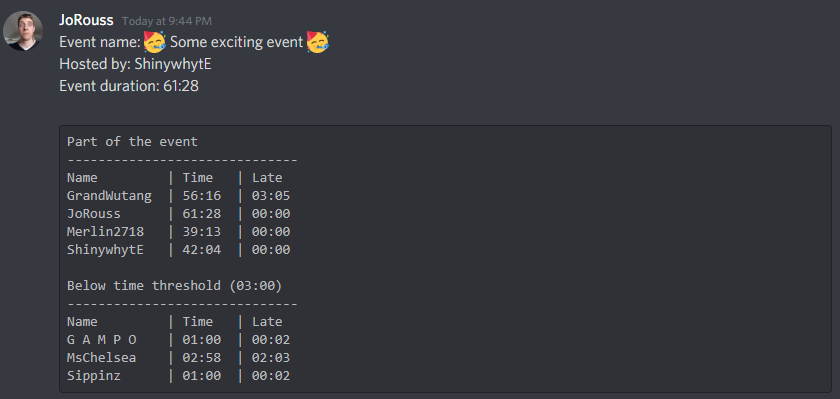
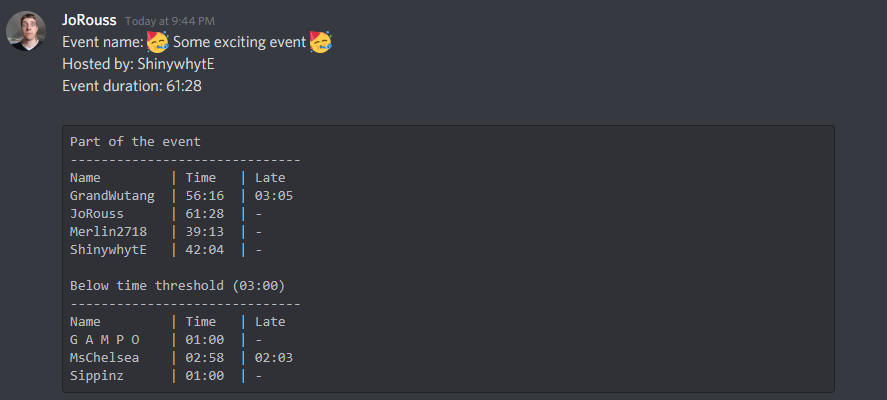
[FEAT] Added the option to set a late timer threshold

Changed region(s): [[0.0619, 0.3308, 0.3405, 0.6617], [0.0619, 0.6917, 0.3405, 0.9624], [0.0, 0.0301, 0.4024, 0.2406]]

diff --git a/src/main/java/com/ClanEventAttendance/ClanEventAttendancePlugin.java b/src/main/java/com/ClanEventAttendance/ClanEventAttendancePlugin.java
@@ -299,7 +299,7 @@ public class ClanEventAttendancePlugin extends Plugin
 		{
 			MemberAttendance ma = attendanceBuffer.get(key);
 
-			if ((int)(ma.totalTicks * 0.6f) < config.getActiveThreshold())
+			if (ticksToSeconds(ma.totalTicks) < config.getActiveThreshold())
 				inactiveSB.append(rowFormat(ma));
 			else
 				activeSB.append(rowFormat(ma));
@@ -315,7 +315,7 @@ public class ClanEventAttendancePlugin extends Plugin
 
 		// ex: Event duration: 18:36
 		attendanceString.append("Event duration: ");
-		attendanceString.append(timeFormat((int)((client.getTickCount() - eventStartedAt) * 0.6f)));
+		attendanceString.append(timeFormat(ticksToSeconds(client.getTickCount() - eventStartedAt)));
 		attendanceString.append("\n\n");
 
 		if (finalDisplay && config.getDiscordMarkdown())
@@ -352,8 +352,9 @@ public class ClanEventAttendancePlugin extends Plugin
 
 	private String rowFormat(MemberAttendance ma)
 	{
-		// ex: JoRouss      | 06:46  | 00:02
-		return String.format("%-12s | %-6s | %-6s\n", ma.member.getName(), timeFormat((int)(ma.totalTicks * 0.6f)), timeFormat((int)(ma.ticksLate * 0.6f)));
+		// ex: JoRouss      | 06:46  | 01:07
+		// ex: SomeDude     | 236:46 | -
+		return String.format("%-12s | %-6s | %-6s\n", ma.member.getName(), timeFormat(ticksToSeconds(ma.totalTicks)), ticksToSeconds(ma.ticksLate) > config.getLateThreshold() ? timeFormat(ticksToSeconds(ma.ticksLate)) : "-");
 	}
 
 	private String timeFormat(int totalSeconds)
@@ -369,5 +370,10 @@ public class ClanEventAttendancePlugin extends Plugin
 
 		//ex: 18:26
 		return String.format("%02d:%02d", minute, second);
+	}
+
+	private int ticksToSeconds(int ticks)
+	{
+		return (int)(ticks * 0.6f);
 	}
 }

diff --git a/src/main/java/com/ClanEventAttendance/ClanEventAttendanceConfig.java b/src/main/java/com/ClanEventAttendance/ClanEventAttendanceConfig.java
@@ -48,13 +48,19 @@ public interface ClanEventAttendanceConfig extends Config
 		return 60 * 5;
 	}
 
-	@ConfigItem(keyName = "discordMarkdown", name = "Discord markdown", description = "Surrounds the final list with multiline code blocks markdown for better Discord display", position = 3)
+	@ConfigItem(keyName = "lateThreshold", name = "Late Threshold", description = "The required time for a member to be consider late expressed in seconds", position = 3)
+	default int getLateThreshold()
+	{
+		return 5;
+	}
+
+	@ConfigItem(keyName = "discordMarkdown", name = "Discord markdown", description = "Surrounds the final list with multiline code blocks markdown for better Discord display", position = 4)
 	default boolean getDiscordMarkdown()
 	{
 		return false;
 	}
 
-	@ConfigItem(keyName = "textPrefix", name = "Text prefix", description = "This text block will be added as a prefix to the final result", position = 4)
+	@ConfigItem(keyName = "textPrefix", name = "Text prefix", description = "This text block will be added as a prefix to the final result", position = 5)
 	default String getTextPrefix()
 	{
 		return "Event name: \nHosted by:";

diff --git a/README.md b/README.md
@@ -19,6 +19,7 @@ Config
 
 The config allows to:
 - Set a time threshold to consider a member part of the event.
+- Set a time threshold to consider a member late at the event.
 - Set the refresh rate of the plugin panel.
 - Surround the final list with multiline code blocks markdown for better Discord display
 - Type a text block that will be added as a prefix to the final result
